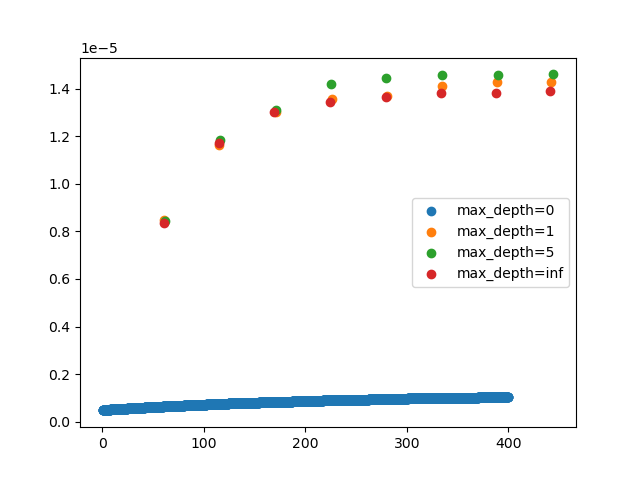
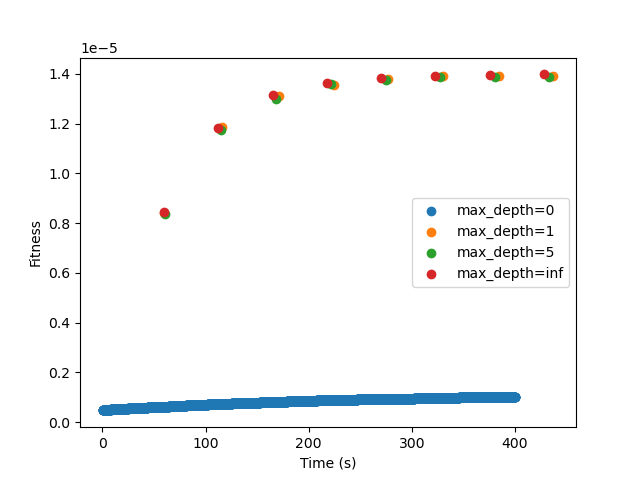
Update figures

diff --git a/PartB/TSP.py b/PartB/TSP.py
@@ -170,18 +170,23 @@ for max_depth in [0, 1, 5, math.inf]:
     t, score = run(population, 3, 0.1, max_depth)
     ax.scatter(t, score)
     ax.scatter(t, score, label=f'max_depth={max_depth}')
+ax.set_xlabel("Time (s)")
+ax.set_ylabel("Fitness")
 ax.legend()
-splt.savefig('file-tsp')
+splt.savefig('figures/file-tsp')
 
 #d1655
 cords = [cord[1:] for cord in list(csv.reader(open('d1655.tsp'), delimiter=" "))]
 cities = [City(float(cord[0]), float(cord[1]), i) for i, cord in enumerate(cords)]
+
 splt, ax = plt.subplots()
 for max_depth in [0, 1, 5, math.inf]:
     population = Population(cities, n_population)
     t, score = run(population, 400, 0.01, max_depth)
     ax.scatter(t, score, label=f'max_depth={max_depth}')
+ax.set_xlabel("Time (s)")
+ax.set_ylabel("Fitness")
 ax.legend()
-splt.savefig('d1655')
+splt.savefig('figures/d1655')
 
 
